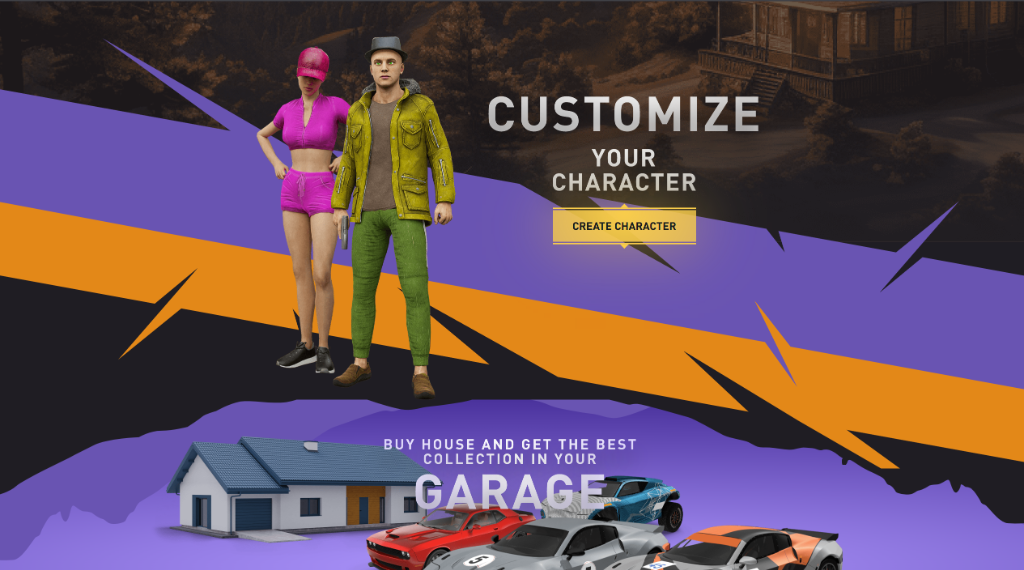
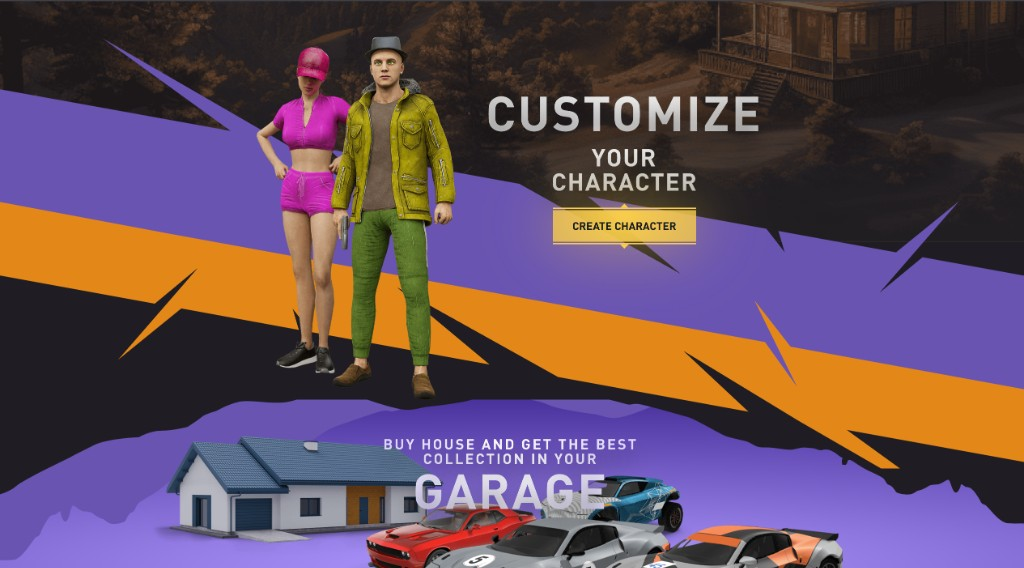
Add Section 4 with seamless visual alignment and create account login modals

diff --git a/style.css b/style.css
@@ -59,14 +59,11 @@ body {
     position: relative;
     width: 100%;
     aspect-ratio: 1024 / 550;
-    max-height: 100vh;
-    max-width: calc(100vh * (1024 / 550));
     background-color: #0c0d10;
     overflow: hidden;
     display: flex;
     align-items: center;
     justify-content: center;
-    box-shadow: 0 10px 50px rgba(0, 0, 0, 0.85);
 }
 
 /* Section 2: What You Want To Be (1024:217) */
@@ -78,17 +75,14 @@ body {
     position: relative;
     width: 100%;
     aspect-ratio: 1024 / 217;
-    max-height: 100vh;
-    max-width: calc(100vh * (1024 / 217));
     background-color: #0c0d10;
     overflow: hidden;
     display: flex;
     align-items: center;
     justify-content: center;
-    box-shadow: 0 10px 50px rgba(0, 0, 0, 0.85);
 }
 
-/* Section 3: Customize Character & Garage (1024:570) */
+/* Section 3: Customize Character & Garage (1024:568) */
 .section3-section,
 .scroll-section {
     background-color: #0c0d10;
@@ -98,15 +92,28 @@ body {
 .scroll-wrapper {
     position: relative;
     width: 100%;
-    aspect-ratio: 1024 / 570;
-    max-height: 100vh;
-    max-width: calc(100vh * (1024 / 570));
+    aspect-ratio: 1024 / 568;
     background-color: #0c0d10;
     overflow: hidden;
     display: flex;
     align-items: center;
     justify-content: center;
-    box-shadow: 0 10px 50px rgba(0, 0, 0, 0.85);
+}
+
+/* Section 4: Join Now & Rare Set (1024:531) */
+.section4-section {
+    background-color: #0c0d10;
+}
+
+.section4-wrapper {
+    position: relative;
+    width: 100%;
+    aspect-ratio: 1024 / 531;
+    background-color: #0c0d10;
+    overflow: hidden;
+    display: flex;
+    align-items: center;
+    justify-content: center;
 }
 
 .artwork-img {
@@ -340,6 +347,35 @@ body {
 }
 
 .hotspot-btn.btn-create-character:active {
+    transform: translateY(1px);
+}
+
+/* Section 4: CREATE ACCOUNT Buttons */
+.hotspot-btn.btn-create-account-top {
+    left: 43.5%;
+    top: 7.5%;
+    width: 13.0%;
+    height: 10.0%;
+    border-radius: 4px;
+}
+
+.hotspot-btn.btn-create-account-bottom {
+    left: 23.2%;
+    top: 74.8%;
+    width: 12.8%;
+    height: 8.0%;
+    border-radius: 4px;
+}
+
+.hotspot-btn.btn-create-account-top:hover,
+.hotspot-btn.btn-create-account-bottom:hover {
+    background: rgba(255, 255, 255, 0.22);
+    box-shadow: 0 0 22px rgba(255, 208, 0, 0.85), inset 0 0 10px rgba(255, 255, 255, 0.4);
+    transform: translateY(-1px);
+}
+
+.hotspot-btn.btn-create-account-top:active,
+.hotspot-btn.btn-create-account-bottom:active {
     transform: translateY(1px);
 }
 
@@ -861,7 +897,8 @@ body {
     .hero-wrapper,
     .section2-wrapper,
     .section3-wrapper,
-    .scroll-wrapper {
+    .scroll-wrapper,
+    .section4-wrapper {
         width: 100%;
         max-width: 100%;
         margin: 0;

diff --git a/index.html b/index.html
@@ -92,6 +92,20 @@
             </div>
         </section>
 
+        <!-- Fourth Section: Rare Set & Create Account (Section 4 - Scroll) -->
+        <section class="page-section section4-section" id="section4Section">
+            <div class="artwork-wrapper section4-wrapper" id="section4Wrapper">
+                <img src="section4.png" alt="Join now and get rare set" class="artwork-img section4-bg"
+                    id="section4Bg">
+
+                <!-- Hotspots for CREATE ACCOUNT buttons -->
+                <button type="button" class="hotspot-btn btn-create-account-top" id="createAccountTopBtn"
+                    title="Create Account / Login to Claim" aria-label="Create Account"></button>
+                <button type="button" class="hotspot-btn btn-create-account-bottom" id="createAccountBottomBtn"
+                    title="Create Account / Login to Claim" aria-label="Create Account"></button>
+            </div>
+        </section>
+
         <!-- Modal Backdrop -->
         <div class="modal-backdrop" id="modalBackdrop"></div>
 

diff --git a/script.js b/script.js
@@ -188,6 +188,18 @@ createOneselfBtn?.addEventListener("click", (e) => {
     openLoginModal();
 });
 
+const createAccountTopBtn = document.getElementById("createAccountTopBtn");
+createAccountTopBtn?.addEventListener("click", (e) => {
+    e.stopPropagation();
+    openLoginModal();
+});
+
+const createAccountBottomBtn = document.getElementById("createAccountBottomBtn");
+createAccountBottomBtn?.addEventListener("click", (e) => {
+    e.stopPropagation();
+    openLoginModal();
+});
+
 // Close modal triggers
 closeLoginModal?.addEventListener("click", (e) => {
     e.stopPropagation();
